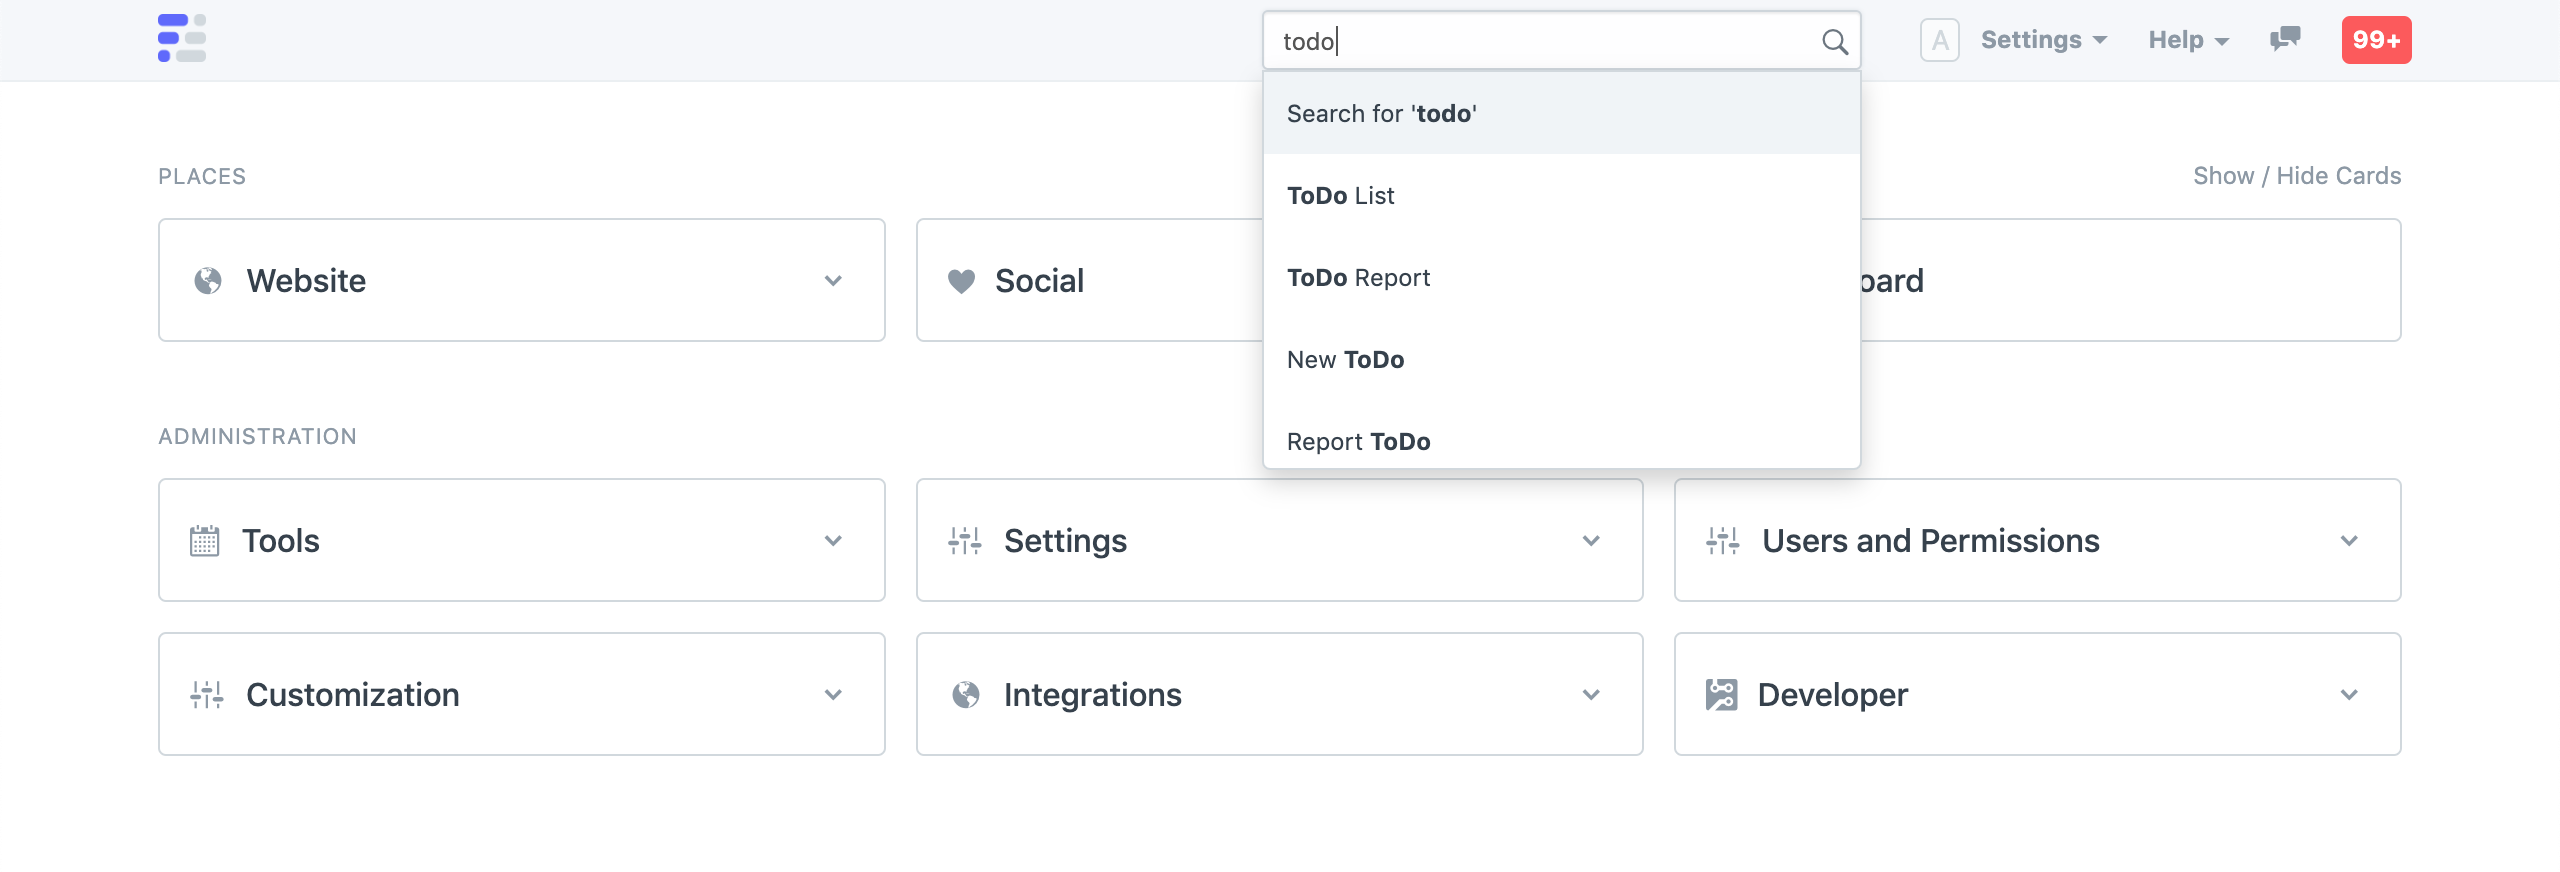
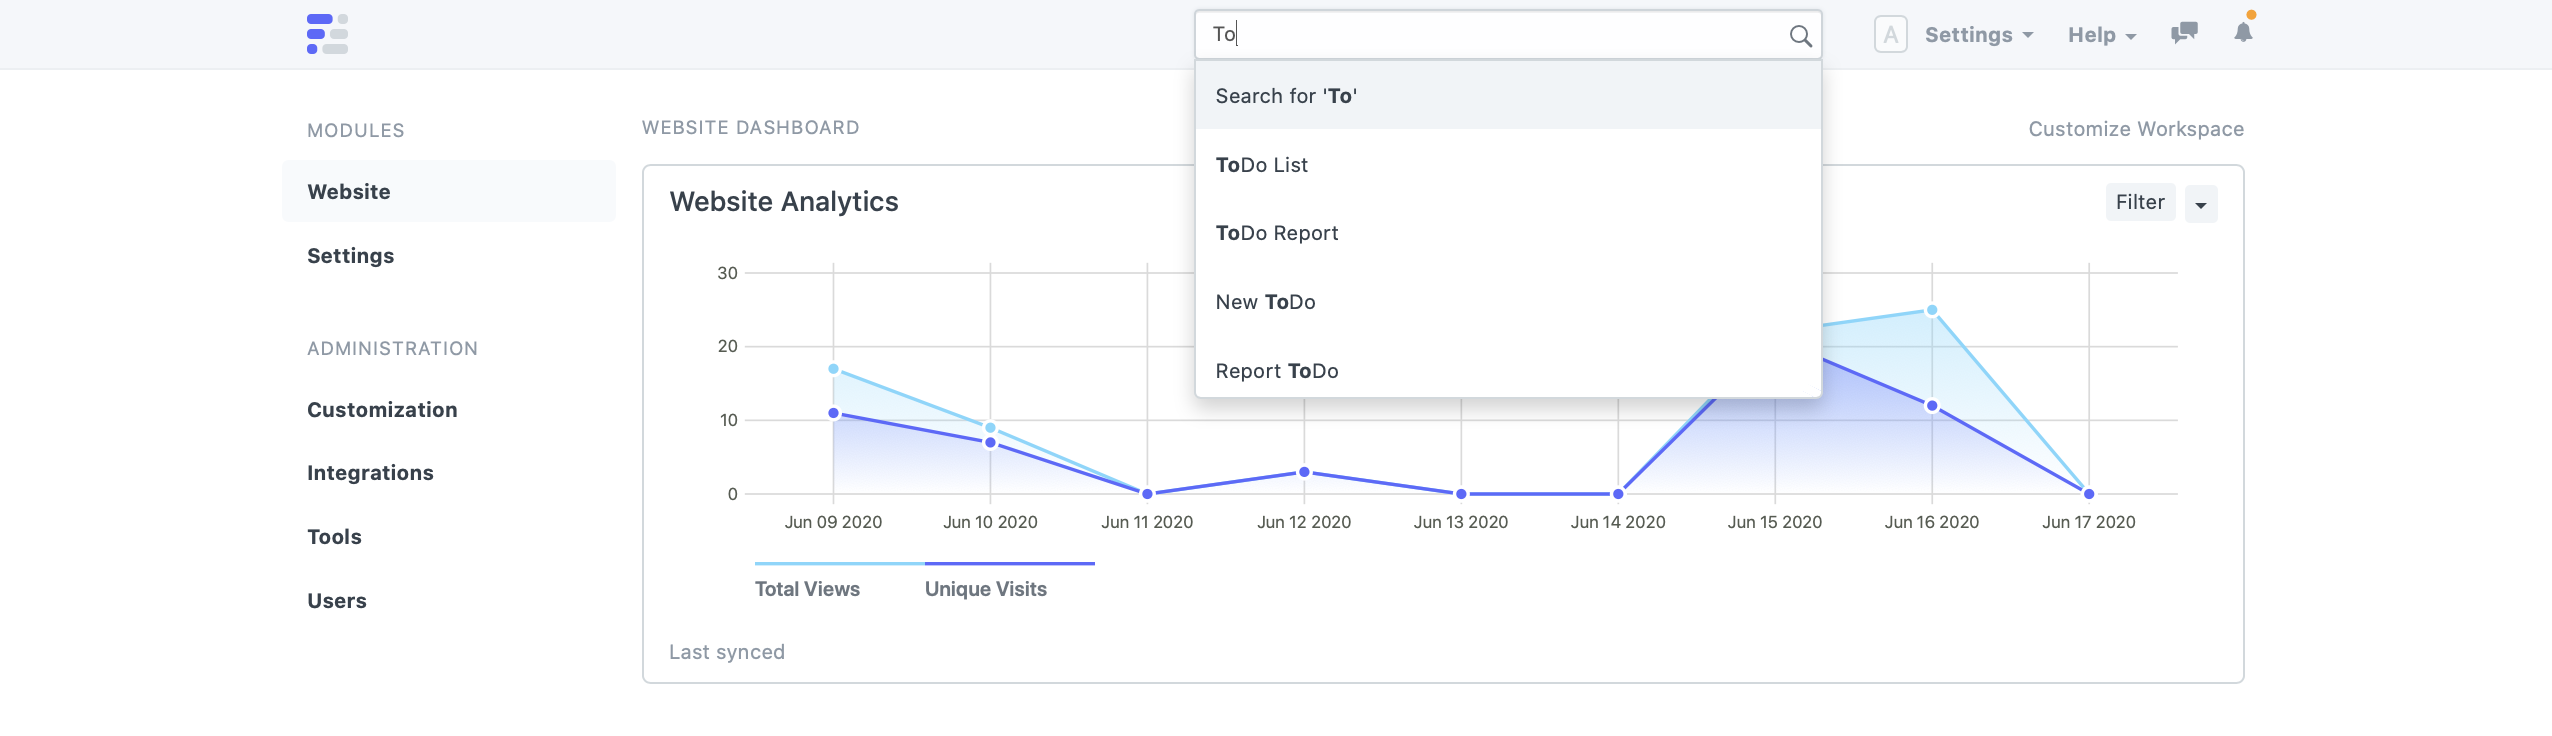
feat: update desk ui in docs

diff --git a/frappe_docs/www/docs/user/en/desk.md b/frappe_docs/www/docs/user/en/desk.md
@@ -27,13 +27,20 @@ In this section we will discuss what views are provided by Desk and how to confi
 - [Gantt View](#gantt-view)
 - [Kanban View](#kanban-view)
 
-## Desktop
+## Workspace
 
-When you login to the Desk, the first screen you see is called the Desktop. Each card
-is organized based on related functionalities and their DocTypes.
+When you login to the Desk, you're presented with the Desktop, it features a persistent sidebar sorted in categories. 
+Each sidebar item links to a page called Workspace.
 
-![Desktop](/docs/assets/img/frappe-desktop.gif)
-*Desktop*
+A workspace represents a module (for example CRM in ERPNext). A workspace includes the following:
+
+1. A dashboard section for that particular module by default.
+1. Shortcuts for commonly visited masters and pages
+1. A masters section where all the reports and masters are grouped and listed
+
+All of these will be customizable by the user. ⚡
+
+![Desktop](/docs/assets/img/desk/workspace.png)
 
 ## Awesomebar
 
